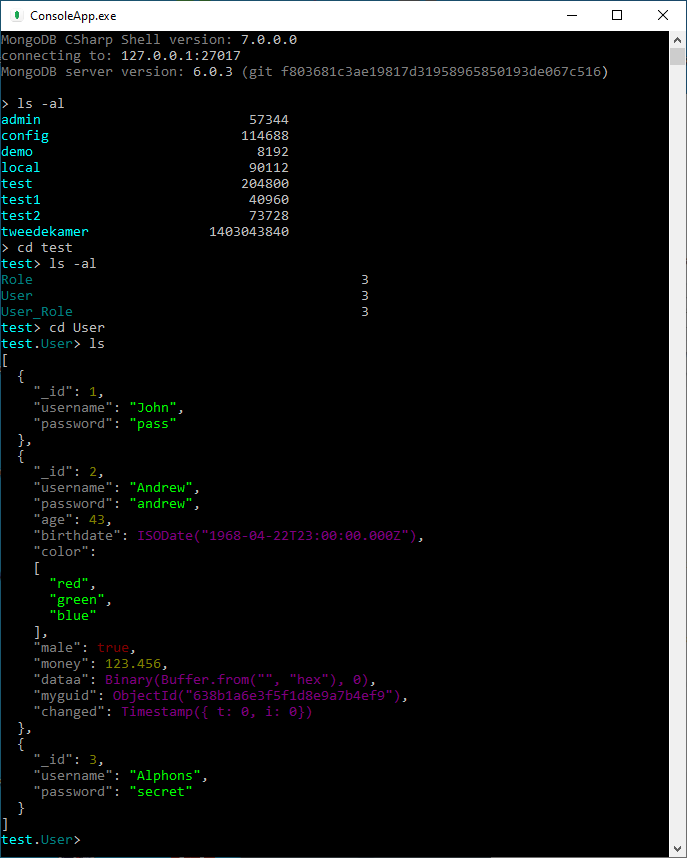
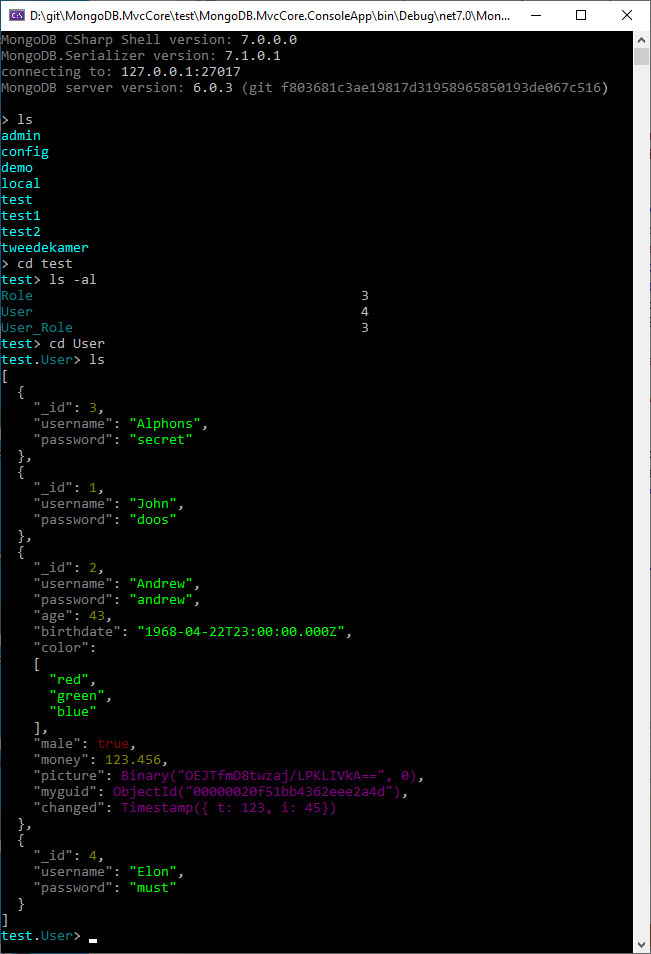
ok

diff --git a/src/MongoDB.MvcCore/BsonJsonExtensions.cs b/src/MongoDB.MvcCore/BsonJsonExtensions.cs
@@ -48,14 +48,6 @@ public static class BsonJsonExtensions
 		return bsonDocuments.Select(x => x["_id"]).ToList();
 	}
 
-	public async static Task<DeleteResult> DeleteOneAsync(this IMongoCollection<BsonDocument> collection, object objA, CancellationToken cancellationToken = default)
-	{
-		var JsonDocument = System.Text.Json.JsonSerializer.Serialize(objA);
-		var doc = BsonDocument.Parse(JsonDocument);
-		var id = doc["_id"];
-		return await collection.DeleteOneAsync($"{{ _id : '{id}' }}", cancellationToken);
-	}
-
 	public async static Task<UpdateResult> UpdateOneAsync(this IMongoCollection<BsonDocument> collection, object objA, CancellationToken cancellationToken = default)
 	{
 		var JsonDocument = System.Text.Json.JsonSerializer.Serialize(objA);
@@ -182,6 +174,11 @@ public static class BsonJsonExtensions
 		collection.InsertManyAsync(bsonDocuments, options);
 		return bsonDocuments.Select(x => x["_id"]).ToList();
 	}
+
+	//public async static Task<DeleteResult> DeleteOneTAsync(this IMongoCollection<BsonDocument> collection, string JsonDocument, CancellationToken cancellationToken = default)
+	//{
+	//	return await collection.DeleteOneAsync(BsonDocument.Parse(JsonDocument), cancellationToken);
+	//}
 
 	public static IAsyncCursor<BsonDocument> Aggregate(this IMongoCollection<BsonDocument> collection, string JsonDocuments, AggregateOptions? options = null)
 	{

diff --git a/src/MongoDB.MvcCore/BsonDocumentJsonConverter.cs b/src/MongoDB.MvcCore/BsonDocumentJsonConverter.cs
@@ -126,8 +126,10 @@ public class Serializer
 			if (dotNetValue is ObjectId)
 				dotNetValue = $"\u008aObjectId(\"{dotNetValue}\")\u0080";
 
+			//if (dotNetValue is byte[] bindata)
+			//	dotNetValue = "\u008aBinary(Buffer.from(\"" + BitConverter.ToString(bindata).ToLower().Replace("-", string.Empty) + "\", \"hex\"), 0)\u0080";
 			if (dotNetValue is byte[] bindata)
-				dotNetValue = "\u008aBinary(Buffer.from(\"" + BitConverter.ToString(bindata).ToLower().Replace("-", string.Empty) + "\", \"hex\"), 0)\u0080";
+				dotNetValue = "\u008aBinary(\"" + Convert.ToBase64String(bindata) + "\", 0)\u0080";
 
 			if (bsonValue is BsonTimestamp timestamp)
 				dotNetValue = $"\u008aTimestamp({{ t: {timestamp.Timestamp}, i: {timestamp.Increment}}})\u0080";
@@ -157,7 +159,7 @@ public class Serializer
 				dotNetValue = dotNetValue.ToString();
 
 			if (dotNetValue is byte[] bindata)
-				dotNetValue = BitConverter.ToString(bindata).ToLower().Replace("-", string.Empty);
+				dotNetValue = Convert.ToBase64String(bindata);
 
 			if (dotNetValue is BsonTimestamp)
 				dotNetValue = dotNetValue.ToString();

diff --git a/test/MongoDB.MvcCore.WinApp/Form1.cs b/test/MongoDB.MvcCore.WinApp/Form1.cs
@@ -34,7 +34,7 @@ namespace MongoTesting.WinApp
 		}
 
 
-		private IMongoCollection<BsonDocument>? GetCollection()
+		private IMongoCollection<BsonDocument> GetCollection()
 		{
 			if (this.client == null)
 				return default;
@@ -159,7 +159,7 @@ namespace MongoTesting.WinApp
 				if (string.IsNullOrWhiteSpace(filter))
 					filter = "{}";
 
-				await GetCollection().DeleteOneAsync(filter);
+				var deleteResult = await GetCollection().DeleteOneAsync(filter);
 
 				ShowOutput();
 			}

diff --git a/test/MongoDB.MvcCore.ConsoleApp/Program.cs b/test/MongoDB.MvcCore.ConsoleApp/Program.cs
@@ -101,7 +101,10 @@ class Program
 
 		var version = $"{Assembly.GetExecutingAssembly().GetName().Version}";
 
+		var serVersion = $"{typeof(Serializer).Assembly.GetName().Version}";
+
 		ColorOutput($"\u0084MongoDB CSharp Shell version:\u0080 {version}{Environment.NewLine}");
+		ColorOutput($"\u0084MongoDB.Serializer version:\u0080 {serVersion}{Environment.NewLine}");
 
 		try
 		{
